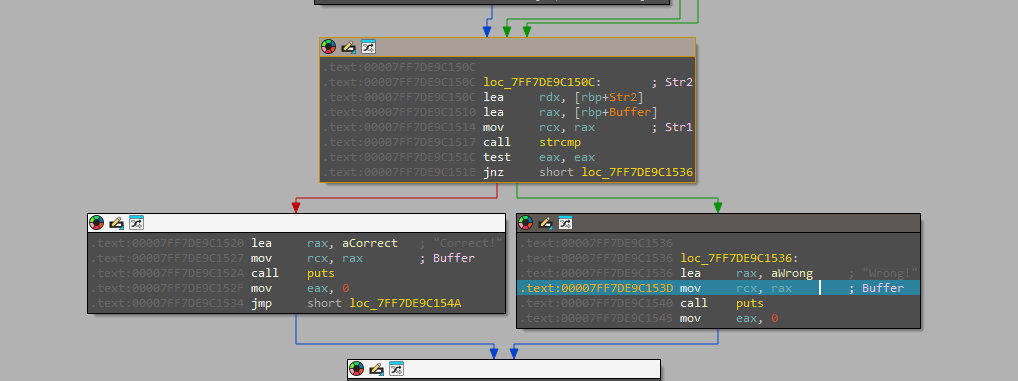
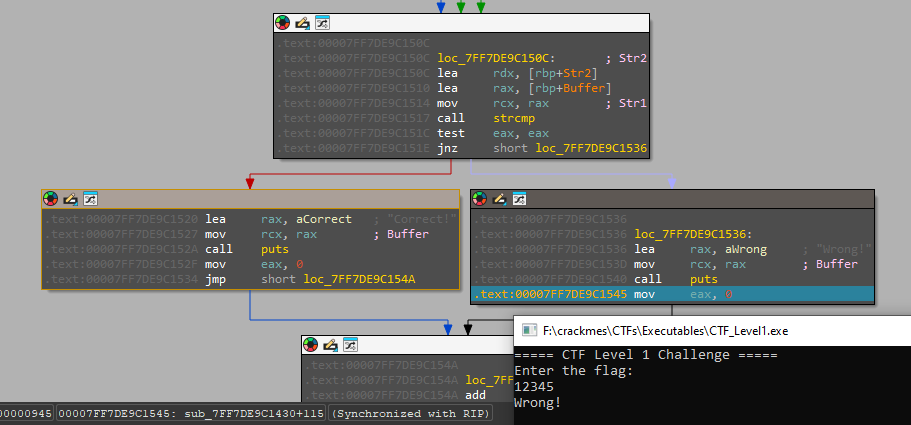
fixed writeup

diff --git a/CTFs/Writeups/level1.md b/CTFs/Writeups/level1.md
@@ -1,9 +1,12 @@
+## Running the binary
 Firt thing i do is open .exe and see what its going to behave. Thats what program is outputing:
 
 ![](screenshots/level1.1.png)
 
 After trying to input something program ends immediately, maybe its printing out if i succesfully logged in or no but loop ends because it have no sleep or anything to stop loop from ending.
-But now i can see the message its outputing so lets try put it in IDA and check for that strings.
+
+## Dissasembling with IDA
+Lets put it in IDA and see if im right.
 
 ![](screenshots/level1.2.png)
 
@@ -39,5 +42,3 @@ Of course its gonna be wrong but now we know password is : CTF{CongratuLations-U
 CTF{CongratuLations-U_$olved-the-first_Level!}
 
 ![](screenshots/level1.8.png)
-
-![](screenshots/level1.9.png)